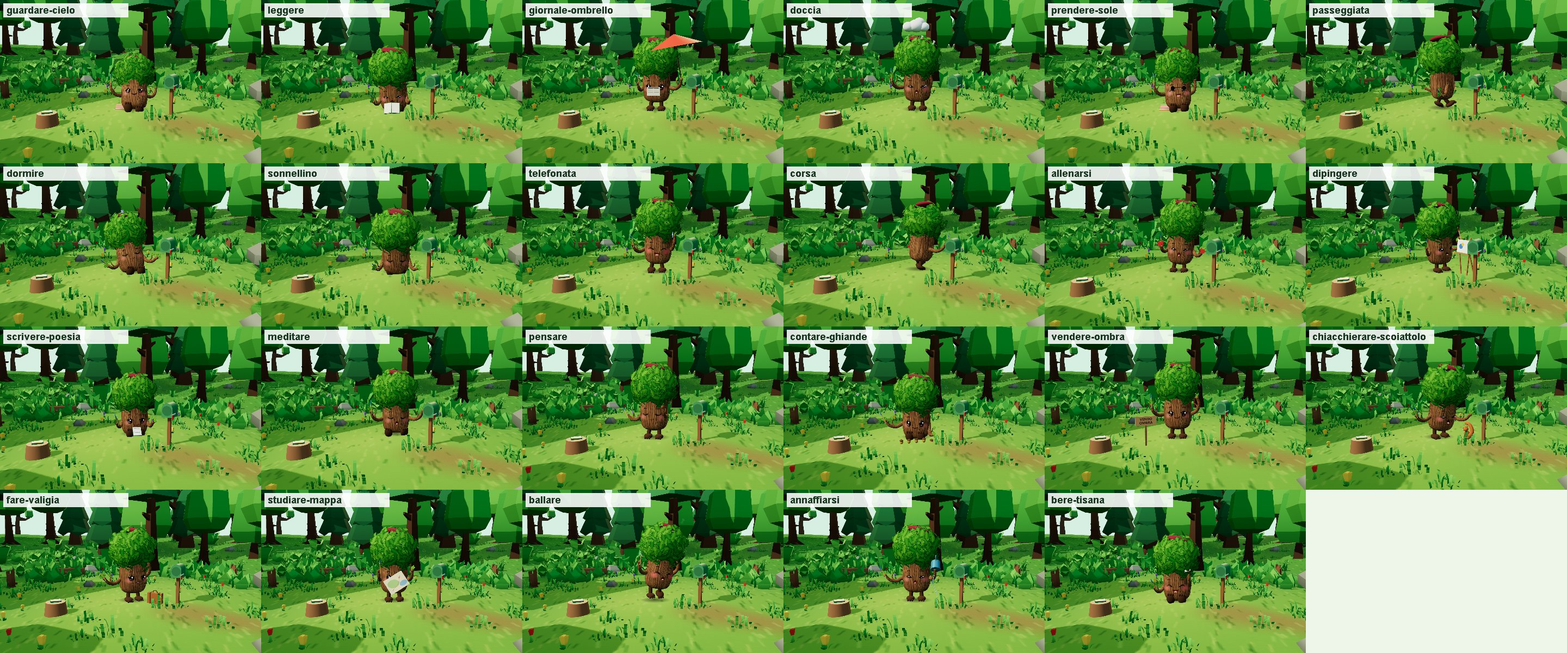
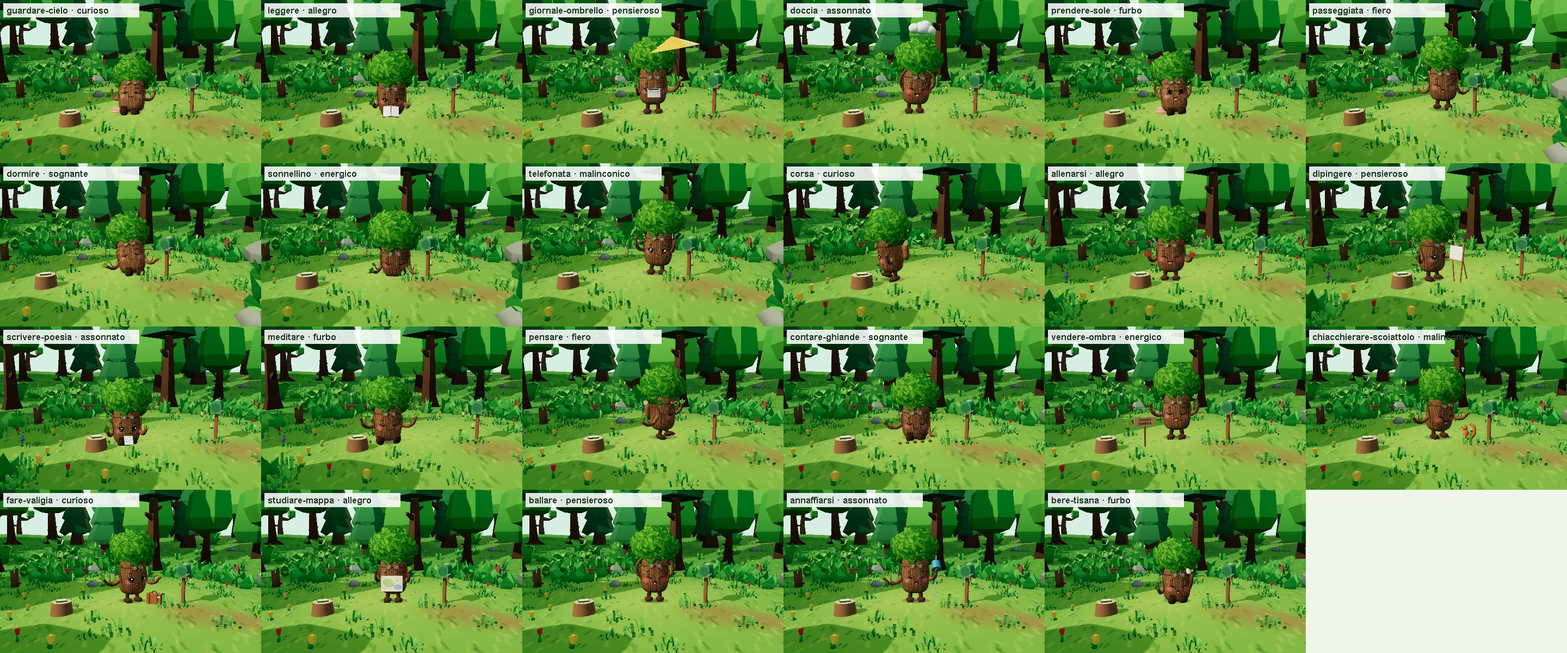
Motore 3D: l'azione del giorno parte subito e domina, sonno vero, corsa di lato
Una nuova azione (anche da imposta) parte subito, con i suoi oggetti, e
la posa si fonde in meno di un secondo. L'azione del giorno occupa
l'84-92% del tempo (misurato): fra una ripetizione e l'altra solo
intermezzi di 3 s circa. Dormire e sonnellino sono sonno vero anche di
giorno (occhi chiusi da subito, zzz, respiro lento, niente
micro-espressioni). Corsa e passeggiata avanti e indietro di lato,
dentro l'inquadratura; camminando non mostra mai la schiena. Telefono
girato verso la camera. comportamento.attivita dice l'attività in corso.

diff --git a/src/lib/giardino3d/comportamento.js b/src/lib/giardino3d/comportamento.js
@@ -12,6 +12,11 @@ import * as O from "./oggetti.js";
  * @typedef {{ giro: number, salto: number, seduto: number, inchino: number, piega: number, allunga: number, bracci: [Braccio, Braccio], gambe: [number, number], divarica: number }} Posa
  */
 
+/** Attività in cui l'albero dorme (occhi chiusi, zzz, respiro lento). */
+const DORME = new Set(["dormi", "dormire", "sonnellino", "meditare"]);
+/** Intermezzi brevi fra una ripetizione e l'altra dell'azione del giorno. */
+const INTERMEZZI = ["stiracchia", "sbadiglia", "canticchia", "guarda-cielo", "fermo"];
+
 /** Quanto si può alzare un braccio che tiene un oggetto (oltre, la mano entra nella chioma). */
 const ALZA_MAX = 0.3;
 
@@ -303,6 +308,7 @@ export function creaComportamento(albero, op) {
   let prossimaMicro = 3 + Math.random() * 3;
   let sveglia = false;
   let contaAttivita = 0;
+  let ultima = "";
   let giro = 0;
   /** @type {THREE.Vector2 | null} */
   let meta = null;
@@ -348,13 +354,15 @@ export function creaComportamento(albero, op) {
   /** L'angolo che lo gira verso la camera, da dove sta. */
   const versoCamera = () => Math.atan2(op.camera.x - pos.x, op.camera.z - pos.y);
 
-  /** @param {string} nome */
-  function avvia(nome) {
+  /** @param {string} nome @param {number} [durata] per accorciare un intermezzo */
+  function avvia(nome, durata) {
     if (att) { att.a.fine?.(att.ctx); libera(); }
-    const a = ROUTINE[nome] ?? AZIONI[nome];
-    if (!a) { att = null; return; }
+    const base = ROUTINE[nome] ?? AZIONI[nome];
+    if (!base) { att = null; return; }
+    const a = durata && durata < base.durata ? { ...base, durata } : base;
     const ctx = contesto({});
     att = { nome, a, t: 0, ctx };
+    ultima = nome;
     if (a.cammina) {
       // un punto nella radura, lontano dalla cassetta e dal taccuino
       for (let k = 0; k < 20; k++) {
@@ -376,11 +384,20 @@ export function creaComportamento(albero, op) {
     if (m.ora === "notte") return avvia("dormi");
     if (sveglia) { sveglia = false; return avvia(Math.random() < 0.5 ? "stiracchia" : "sbadiglia"); }
     const piove = m.cielo === "pioggia" || m.cielo === "temporale";
-    if (piove && azione !== "giornale-ombrello" && Math.random() < 0.65) return avvia("ripara");
+    const conAzione = !!(azione && AZIONI[azione]);
+    // con un'azione del giorno: l'azione occupa quasi tutto il tempo e, fra una
+    // ripetizione e l'altra, c'è solo un intermezzo breve (pochi secondi)
+    if (conAzione) {
+      const eraAzione = ultima === azione;
+      if (!eraAzione || Math.random() < 0.35) return avvia(azione);
+      if (piove && azione !== "giornale-ombrello") return avvia("ripara", 3.5);
+      if (m.temperatura > 28) return avvia("fa-vento", 3);
+      return avvia(INTERMEZZI[Math.floor(Math.random() * INTERMEZZI.length)], 3.2);
+    }
+    if (piove && Math.random() < 0.65) return avvia("ripara");
     if (m.temperatura > 28 && Math.random() < 0.35) return avvia("fa-vento");
     // torna verso casa se si è allontanato
     if (pos.distanceTo(casa) > 1.6 && Math.random() < 0.7) { meta = casa.clone(); att = { nome: "torna", a: ROUTINE.cammina, t: 0, ctx: contesto({}) }; return; }
-    if (azione && AZIONI[azione] && (contaAttivita % 2 === 1 || Math.random() < 0.3)) return avvia(azione);
     const gusti = GUSTI[umore] ?? GUSTI.curioso;
     const lista = Object.entries(gusti);
     let x = Math.random() * lista.reduce((s, [, w]) => s + w, 0);
@@ -398,7 +415,7 @@ export function creaComportamento(albero, op) {
       ctx.dati.versoCassetta = THREE.MathUtils.clamp(Math.atan2(d.x, d.y) - versoCamera(), -0.6, 0.6); // si gira, ma il viso resta verso di noi
     }
     // svegliarsi di soprassalto se dormiva
-    if (att?.nome === "dormi") { att.a.fine?.(att.ctx); libera(); att = null; }
+    if (DORME.has(att?.nome ?? "")) { att?.a.fine?.(att.ctx); libera(); att = null; }
     reaz = { nome, r, t: 0, ctx };
     r.inizia(ctx);
     if (nome === "saluta" || nome === "carezza") albero.viso.guarda(0, 0.15); // ci guarda negli occhi
@@ -411,7 +428,13 @@ export function creaComportamento(albero, op) {
     /** @param {string} u */
     umore(u) { umore = u; albero.viso.umore(u); },
     /** @param {string} a */
-    azione(a) { azione = a; if (att && AZIONI[att.nome]) att.t = att.a.durata; },
+    azione(a) {
+      const nuova = a !== azione;
+      azione = a;
+      // parte subito (la posa si fonde in meno di un secondo), tranne di notte o se è in mano
+      if (nuova && a && AZIONI[a] && !preso && !caduta && op.mondo.ora !== "notte") { reaz = null; avvia(a); }
+      else if (nuova && att && AZIONI[att.nome]) att.t = att.a.durata;
+    },
     /** Il mondo è cambiato (ora, meteo): interrompe le attività che non c'entrano più. */
     mondoCambiato() {
       const notte = op.mondo.ora === "notte";
@@ -442,6 +465,8 @@ export function creaComportamento(albero, op) {
       casa.set(THREE.MathUtils.clamp(pos.x, op.limiti.x0, op.limiti.x1), THREE.MathUtils.clamp(pos.y, op.limiti.z0, op.limiti.z1));
     },
     get preso() { return preso; },
+    /** L'attività in corso (azione o routine). */
+    get attivita() { return att?.nome ?? ""; },
     /** Posizione sul prato (x, z): si può spostare per non sovrapporsi agli altri. */
     get posizione() { return pos; },
     get casa() { return casa; },
@@ -515,6 +540,10 @@ export function creaComportamento(albero, op) {
         }
       }
       if (camminando) {
+        // al massimo di lato rispetto alla camera, mai di schiena
+        const rel = Math.atan2(Math.sin(giro - versoCamera()), Math.cos(giro - versoCamera()));
+        const lim = velPasso < 0.8 ? 1.15 : 1.45; // camminando piano resta quasi di fronte
+        giro = versoCamera() + THREE.MathUtils.clamp(rel, -lim, lim);
         fasePasso += dt * 9 * velPasso;
         p.gambe = [Math.sin(fasePasso) * 0.55, -Math.sin(fasePasso) * 0.55];
         p.salto = Math.abs(Math.sin(fasePasso)) * 0.05;
@@ -545,7 +574,7 @@ export function creaComportamento(albero, op) {
 
       // micro-espressioni dell'umore
       prossimaMicro -= dt;
-      if (prossimaMicro <= 0 && !reaz && att?.nome !== "dormi") {
+      if (prossimaMicro <= 0 && !reaz && !DORME.has(att?.nome ?? "")) {
         prossimaMicro = 5 + Math.random() * 5;
         const lista = MICRO[umore] ?? MICRO.curioso;
         const m = lista[Math.floor(Math.random() * lista.length)];
@@ -631,7 +660,7 @@ export function creaComportamento(albero, op) {
     a.corpo.rotation.x = ora.inchino;
     a.corpo.rotation.z = ora.piega;
     // respiro: lento quando dorme
-    const lento = att?.nome === "dormi" ? 0.55 : 1;
+    const lento = DORME.has(att?.nome ?? "") ? 0.55 : 1;
     const r = Math.sin(t * 1.6 * lento);
     a.busto.scale.set(1 - 0.006 * r, 1 + 0.012 * r + ora.allunga, 1 - 0.006 * r);
     a.chioma.scale.setScalar(1 + 0.025 * r);

diff --git a/src/lib/giardino3d/azioni.js b/src/lib/giardino3d/azioni.js
@@ -157,8 +157,8 @@ export const AZIONI = {
     durata: 14,
     inizia: (c) => { c.viso.parla(3, true); c.emetti("nota", 2); },
     percorso: (t) => {
-      const a = (t / 14) * Math.PI * 2;
-      return { x: Math.sin(a) * 1.2, z: (1 - Math.cos(a)) * -0.6, vel: 0.6 };
+      const a = (t / 9) * Math.PI * 2;
+      return { x: Math.sin(a) * 1.1, z: 0.2 + Math.cos(a) * 0.2, vel: 0.6 };
     },
     posa: (p) => {
       // mani dietro la schiena
@@ -176,30 +176,30 @@ export const AZIONI = {
       p.piega = 0.15 * k;
       p.bracci[0].alza = p.bracci[1].alza = -0.6 * k;
       p.bracci[0].avanti = p.bracci[1].avanti = 0.6 * k;
-      if (k > 0.8) c.viso.breve("dorme", 0.3);
-      if (t - c.dati.z > 2.4 && k > 0.8) { c.dati.z = t; c.emetti("zzz", 1); }
+      c.viso.breve("dorme", 0.3);
+      if (t - c.dati.z > 2.2) { c.dati.z = t; c.emetti("zzz", 1); }
     },
   },
   sonnellino: {
     durata: 9,
-    inizia: (c) => { c.dati.z = 0; c.viso.breve("sbadiglia", 1.6); },
+    inizia: (c) => { c.dati.z = -2; },
     posa: (p, t, c) => {
-      const k = busta(t - 1.2, 7.8, 0.8, 0.6);
+      const k = busta(t, 9, 0.6, 0.6);
       p.seduto = k;
       p.inchino = (0.22 + Math.sin(t * 0.8) * 0.06) * k;
       p.bracci[0].avanti = p.bracci[1].avanti = 1.0 * k;
       p.bracci[0].alza = p.bracci[1].alza = -0.4 * k;
-      if (k > 0.7) c.viso.breve({ dorme: 1, sorriso: 0.3 }, 0.3);
-      if (t - c.dati.z > 2.2 && k > 0.7) { c.dati.z = t; c.emetti("zzz", 1); }
+      c.viso.breve("dorme", 0.3);
+      if (t - c.dati.z > 2.2) { c.dati.z = t; c.emetti("zzz", 1); }
     },
   },
   telefonata: {
     durata: 11,
     inizia: (c) => {
       const tel = c.inMano(1, O.telefono());
-      tel.position.set(0.02, 0.06, 0.06);
-      tel.scale.multiplyScalar(1.5);
-      tel.userData.diritto = [0, -1.3, 0];
+      tel.position.set(0.02, 0.08, 0.1);
+      tel.scale.multiplyScalar(1.9);
+      tel.userData.diritto = [0, -0.45, 0]; // girato quasi verso di noi: si vede lo schermo
       c.viso.parla(10.5);
     },
     posa: (p, t, c) => {
@@ -216,8 +216,9 @@ export const AZIONI = {
     durata: 12,
     inizia: (c) => c.viso.breve({ sorpresa: 0.2, aperta: 0.55, sorriso: 1.1, guance: 1.2 }, 11.5),
     percorso: (t) => {
-      const a = (t / 6) * Math.PI * 2;
-      return { x: Math.sin(a) * 1.3, z: (Math.cos(a) - 1) * 0.7, vel: 1.5 };
+      // avanti e indietro di lato, con una curva verso la camera: mai di schiena
+      const a = (t / 4) * Math.PI * 2;
+      return { x: Math.sin(a) * 1.2, z: 0.25 + Math.cos(a) * 0.25, vel: 1.6 };
     },
     posa: (p, t, c) => {
       p.bracci[0].alza = p.bracci[1].alza = 0.2;
